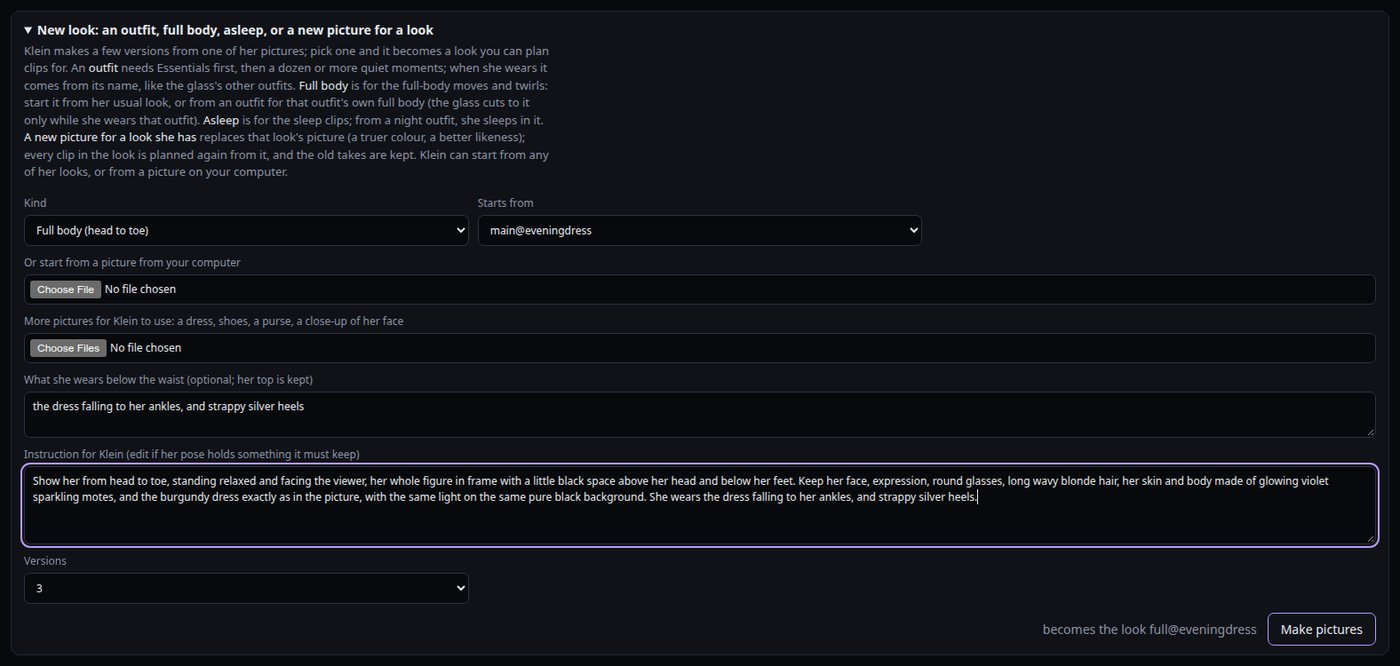
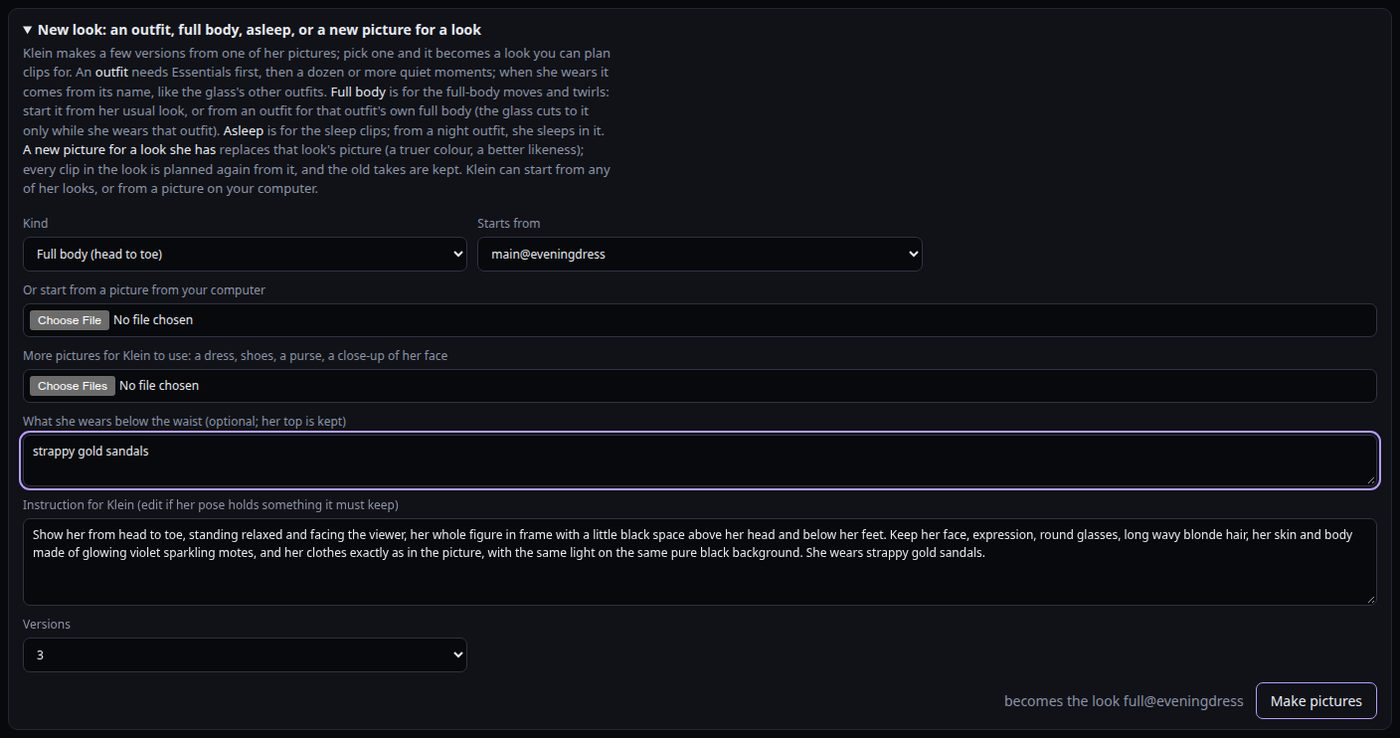
Docs for tonight's fixes and features: feelings after she finishes and outfit stand-ins, any number of Chooms on the stage, moves in the clothes she has on, usual clothes by description, versioned relief files and cache pruning, the build's retried reload, room pauses that expire, mute on subscribe,

diff --git a/hologram/docs/reference.md b/hologram/docs/reference.md
@@ -44,6 +44,10 @@ to report in. Glass Studio's build uses it. Exit codes:
 | `1` | still busy after 10 minutes; not relaunched |
 | `2` | the launch failed: `launch.sh` failed (no Portrait at 1536x2048, say) or no new page within 40 s |
 
+Two relaunches at the same moment can leave duplicate processes. When several scripts or tools may
+relaunch, wrap each in the same lock, e.g. `flock /tmp/glass-relaunch.lock tools/relaunch_when_quiet.sh`;
+`launch.sh` lets go of the lock it was handed (step 2), so it is free again as soon as the relaunch ends.
+
 **Recovery.** The server watches the rest:
 - **The page:** it posts its status every 2 s, also with the screens dark. If none comes for a minute
   (Chrome crashed, the page froze), the server relaunches everything with `launch.sh`. Not in the
@@ -76,7 +80,7 @@ files without a restart.
 | `presence.json` | server.py | presence roles to entities ([Presence](#presence-home-assistant)) |
 | `weather.json` | server.py | weather station sensors ([Weather](#weather)) |
 | `camera.json` | tower_eyes.py, server.py | camera settings from the Choom app's Camera tab ([The glass camera](#the-glass-camera)) |
-| `studio.json` | Glass Studio | the workspace folder ([studio/README.md](../studio/README.md#setup)) |
+| `studio.json` | Glass Studio | the workspace folder and the Studio's settings, such as the morning summary ([studio/README.md](../studio/README.md#setup)) |
 
 **Logs** (in `hologram/`): `server.log`, `ears.log`, `eyes.log`, `chrome.log` and `studio/studio.log`
 are appended on every launch (each starts with a `== <time> launch ==` line) and rotated past 5 MB
@@ -89,7 +93,7 @@ The glass page's keys:
 
 | Key | Does |
 |---|---|
-| ← → or 1–4 | switch Choom |
+| ← → or 1–9 | switch Choom |
 | hold L | listening |
 | H | the readout (fps, clip, depth, calibration, PAUSED) |
 | Space | pause the particles, bands and orbs* |
@@ -157,9 +161,12 @@ whole pipeline. The steps underneath:
    - MediaPipe tracks her mouth.
 
    It writes `portraits/<id>/alive_<clip>.mp4` (colour, depth and cut-out stacked) and `alive.json`.
-   It encodes only clips that are new or changed. After the page reloads, `make_alive.py <id> --prune`
-   deletes videos of clips no longer listed. `tools/make_alive_depth.py` caches depth alone, so
-   `make_alive.py` can then run on the CPU beside a render.
+   It encodes only clips that are new or changed; a re-encoded clip gets a new name
+   (`alive_<clip>_v2.mp4`), so the running page never plays a new take with the old take's mouth track.
+   Caches and videos are written to a `.part` file and swapped in, so a stopped build can't leave a
+   cut-short file behind. After the page reloads, `make_alive.py <id> --prune` deletes videos of clips
+   no longer listed, their depth and mask caches, and leftover `.part` files. `tools/make_alive_depth.py`
+   caches depth alone, so `make_alive.py` can then run on the CPU beside a render.
 
 **Two processes on one GPU.**
 - Depth Anything shares the GPU badly with a Wan2GP queue (more than tenfold slower), so builds
@@ -187,8 +194,9 @@ http://127.0.0.1:8767, or from `studio/studio.py` on the command line.
 - It plans clips from `studio/packs.json` and writes the Wan2GP queues.
 - It renames finished renders by seed and makes contact sheets with automatic checks
   (`studio/review.py`).
-- It builds in order: cut-outs, `make_alive.py`, `tools/relaunch_when_quiet.sh`, then `--prune`.
-- Renders and builds take turns on the GPU.
+- It builds in order: cut-outs, `make_alive.py`, then a relaunch at a quiet moment (retried until the
+  glass is quiet; a busy glass doesn't fail the build), and `--prune` only after the relaunch.
+- Renders and builds take turns on the GPU; builds can be scheduled for a time or after a render.
 
 ## Clips, moods and poses
 
@@ -219,7 +227,7 @@ The page picks clips by what she is doing:
 |---|---|---|
 | idle | base, glance, breath, hum, daydream, giggle, groove | quiet moments, shuffled |
 | talk, think, listen | base, listen, thinkup, longcalm | while she talks, waits on her model, or hears you |
-| happy, surprised, sad, concerned | happy, sad | once, before she answers, when what you said feels that way |
+| happy, surprised, sad, concerned | happy, sad | once: before she answers, when what you said feels that way; after she finishes, when what she said did (an outfit without them plays its nearest clip) |
 | oops | oops_wince, relaxedoops_jaw | once, after one of her tools fails or she says it didn't come out right |
 | greet | wave | taking the glass after a long while away |
 | sleep, wake, yawn | fallasleep, sleep2, wake, yawn | night (below); yawns near bedtime and after waking |
@@ -238,7 +246,7 @@ few listening clips borrows her quiet clips that keep facing forward.
 | Pose | What it is |
 |---|---|
 | `main` | her picture |
-| `relaxed` | Aloy with her hand down: her home pose, reached by `lower` and `raise`; the raised finger comes up now and then while she talks |
+| `relaxed` | Aloy with her hand down: her home pose (set per Choom in the Studio, written to `alive.json` as `home`), reached by `lower` and `raise`; the raised finger comes up now and then while she talks |
 | `asleep` | asleep |
 | `full` | her whole figure, from a full-body picture made from her reference sheet |
 
@@ -247,8 +255,8 @@ quiet clip in fourteen cuts to a full-body clip and back (`FULL_IDLE_CHANCE`).
 
 An outfit can have its own full body (`full@dayshop`, clips named `<id>_dayshop-full_<what>`):
 - In that outfit, the glass cuts only to that full body.
-- In an outfit without one, the glass never cuts to full body. A move she asks for then plays in her
-  usual full body.
+- In an outfit without one, the glass never cuts to full body, and a full-body move she asks for
+  doesn't play there (her answer says which clothes have it).
 
 ## Looks and outfits
 
@@ -293,8 +301,9 @@ are defaults. Copy `glass-settings.example.json` to `glass-settings.json` beside
   when they have their own asleep look (`asleep@nightcold`, with sleep and wake clips such as
   `<id>_nightcold-fallasleep`).
 
-**Her own choice.** Clothes she chooses herself (`glass_wear`, below) take priority over these rules
-until she goes to sleep, until she chooses again, or until midnight. Night clothes she chose stay on
+**Her own choice.** Clothes she chooses herself (`glass_wear`, below) take priority over these rules,
+the day outfit and the 10 pm night clothes included, until she goes to sleep, until she chooses again,
+or at most until midnight. Night clothes she chose stay on
 to sleep in when they have an asleep look.
 
 Neither the Choom app's prompts nor the glass ever tell the Chooms what they are wearing at a given
@@ -316,7 +325,7 @@ and correlation against the voice heard) to `telemetry.log`.
 
 | Choom app route | Used for |
 |---|---|
-| `GET /api/hologram/events` | the live feed: turns, thinking, tools (with the sister when Aloy delegates), failed tools, pictures, speakable sentences, room members, camera and glass requests |
+| `GET /api/hologram/events` | the live feed: turns, thinking, tools (with the sister when Aloy delegates), failed tools, pictures, speakable sentences, room members, camera and glass requests; a new subscriber gets the app's mute first when it's muted |
 | `POST /api/hologram/voice` | heartbeat every 10 s while the hologram speaks, so browsers at home stay quiet |
 | `POST /api/hologram/listening` | typing or the mic in the app at home |
 | `POST /api/hologram/talk` | words heard at the tower, into her chat (`{choom, text}`) or the group room (`{room: true, text}`) |
@@ -581,9 +590,12 @@ a turn of hers in a room.
 Some cases run differently:
 - A room that hadn't reached its next speaker yet just carries on.
 - Your own message to a paused room takes its place.
-- A pause older than an hour is dropped.
+- A pause request older than 15 minutes is dropped, and a room's new run clears one left from an
+  earlier run.
+- A welcome that fails (the chat can't be reached) resumes the rooms it paused at once.
 - If the tower never says you're done, the room picks up after 15 minutes (`ROOMS_PAUSED_S` in
-  `server.py`), once the tower has been quiet for 2.
+  `server.py`, once the tower has been quiet for 2). The Choom app does the same on its own after 15
+  minutes without the hologram's done.
 
 **Logging and tests.** Each leaving and returning is logged as `desk`. Welcomes and skips are logged as
 `welcome`, and paused rooms as `rooms`. `POST /control {"welcomeTest": 30}` sends a real welcome now,
@@ -629,7 +641,7 @@ Each wake and blank is logged as `screens`.
 ## Everything else on the page
 
 - **Group stage.**
-  - A room turn brings the Chooms in that room to the glass, from two to four of them. All four come
+  - A room turn brings the Chooms in that room to the glass, however many there are. All of them come
     when the room isn't known, as with "OK Chooms".
   - The speaker stands in front, and her sisters stand smaller behind her, turned toward her. When the
     turn passes, the two trade places.
@@ -739,7 +751,8 @@ Each wake and blank is logged as `screens`.
 | `recovery`, `feed` | server | a page relaunch or a helper restarted or stopped (also in `recovery.log`); the Choom feed reconnecting |
 
 `tools/deinterleave.py OUT.jpg [view ...]` grabs the Portrait and rebuilds individual views. Use it to
-check depth without standing in front of the glass; run it with a Python that has numpy and Pillow.
+check depth without standing in front of the glass; run it with a Python that has numpy and Pillow. It
+finds the calibration in `calibration/` as the server does (`HOLOGRAM_CALIBRATION` names one).
 
 ## Still portraits (fallback)
 

diff --git a/hologram/README.md b/hologram/README.md
@@ -19,11 +19,12 @@ happening in the Choom app: listening, thinking, using tools, changing clothes, 
   her mouth follows the words. While the glass is running, browsers at home stay quiet, so each reply
   is heard once.
 - **Moods.** She listens while you type or use the mic, looks thoughtful while her model works, and
-  shows happy, surprised, sad or concerned when the conversation calls for it. When one of her tools
-  fails she makes a face of her own.
+  shows happy, surprised, sad or concerned when the conversation calls for it: before she answers what
+  you said, and once she has finished saying something that feels that way (in an outfit without that
+  expression, its nearest look). When one of her tools fails she makes a face of her own.
 - **Tool moments and pictures.** Each tool she uses has a fitting look. A picture she makes or
   analyzes floats beside her for a few seconds.
-- **Group stage.** In a group room, the Chooms in that room share the glass (two to four of them).
+- **Group stage.** In a group room, the Chooms in that room share the glass, however many there are.
   The speaker stands in front, and the speakers trade places as the turn passes.
 
 **Looks and clothes**
@@ -33,9 +34,10 @@ happening in the Choom app: listening, thinking, using tools, changing clothes, 
   changes with a camera cut or a change-of-clothes clip.
 - **Full body.** Now and then the glass cuts to her whole figure. An outfit can have its own full
   body, used only while she wears it.
-- **Their own choices.** The Chooms can ask the glass for a move or for clothes from their closet.
-  A move plays in the clothes she has on. Anything they don't have yet goes on a wish list in Glass
-  Studio.
+- **Their own choices.** The Chooms can ask the glass for a move or for clothes from their closet,
+  their usual clothes included ("my cream blouse"). Clothes she picks take priority until bedtime. A
+  move plays in the clothes she has on, at her next quiet moment on the glass within half an hour.
+  Anything they don't have yet goes on a wish list in Glass Studio.
 
 **Talking at the tower, and being seen**
 - **Wake phrases.** Say "OK Aloy" (or Optic, Genesis, Eve) and she comes to the glass and listens.
@@ -90,11 +92,14 @@ The Choom app runs on another machine (here a Mac Studio). The hologram reaches 
 4. **Choom app.** `export CHOOM_URL=http://<choom-host>:3000` (the default is in `launch.sh`).
 5. **Home Assistant (optional).** Put `ha_url`, `ha_token`, `presence.json` and `weather.json` in
    `~/.config/choom-hologram/` ([Presence](docs/reference.md#presence-home-assistant), [Weather](docs/reference.md#weather)).
-6. **Start.** Run `./launch.sh`; `./launch.sh stop` closes everything. To start at login, point an
+6. **Install settings (optional).** Sleep hours, the night-clothes hour, temperature thresholds,
+   evening hours and outfit visit lengths have defaults; to change them, copy
+   `glass-settings.example.json` to `glass-settings.json` ([Looks and outfits](docs/reference.md#looks-and-outfits)).
+7. **Start.** Run `./launch.sh`; `./launch.sh stop` closes everything. To start at login, point an
    autostart entry at `tools/autostart.sh`, which waits for the Portrait ([Running](docs/reference.md#running)).
    While it runs, the server relaunches a page that stops reporting and keeps the tower's listener and
    camera running ([Recovery](docs/reference.md#running)).
-7. **Glass Studio.** Point `~/.config/choom-hologram/studio.json` at a workspace folder and open
+8. **Glass Studio.** Point `~/.config/choom-hologram/studio.json` at a workspace folder and open
    http://127.0.0.1:8767 ([studio/README.md](studio/README.md)). `launch.sh` starts the Studio if it
    isn't running.
 
@@ -145,11 +150,15 @@ configuration files, the Choom app routes, debugging hooks and telemetry.
 [Glass Studio](studio/README.md) is where clips, looks, outfits and new Chooms are made, at
 http://127.0.0.1:8767 on the GPU machine.
 1. **Plan.** It plans clips from a library of actions that have worked on the glass.
-2. **Render.** It renders them with Wan2GP, now or at a scheduled time.
+2. **Render.** It renders them with Wan2GP, now or at a scheduled time. The work list can be paused
+   after the item it's on, and resumed.
 3. **Review.** It shows each clip as a contact sheet, with automatic checks for the usual failures
-   (fog, a camera push-in, a colour shift, a seam, a cut).
-4. **Arrange and build.** You arrange each look's clips and build them onto the glass, which
-   reloads when she is quiet.
+   (fog, a camera push-in, a colour shift, a seam, a cut). An earlier take can be brought back.
+4. **Arrange and build.** You arrange each look's clips and build them onto the glass (now, at a time,
+   or after the render), which reloads when she is quiet. Each look shows how far it is from the glass.
+
+A short summary can come by Signal through the Choom app when the night's work is done, held until
+morning so it never wakes anyone ([studio README](studio/README.md#setup)).
 
 Each clip's prompt, seed and decision is kept in that Choom's project file.
 

diff --git a/hologram/studio/README.md b/hologram/studio/README.md
@@ -262,8 +262,8 @@ rendered clip uses, a look's picture, versions a look is waiting on, or a queue 
 **A morning summary on Signal** (optional): when a scheduled render or build, or a run of them, has
 finished or failed, the Studio sends one short message through the Choom app, in one Choom's Signal
 thread. It lists what ran, anything that failed and why, and how many clips wait for review and how
-many are flagged. Anything that ends between 10 pm and 7 am waits until 7. Turn it on in
-`studio.json` (see Setup).
+many are flagged. Anything that ends in the quiet hours (10 pm to 7 am unless you set them) waits
+until they're over. Turn it on in `studio.json` (see Setup).
 
 ### Looks
 
@@ -277,7 +277,9 @@ Each look has its picture and three lines:
 
 An outfit's card also has its **closet words** (see [What the Chooms can ask
 for](#what-the-chooms-can-ask-for)). **Save** applies the lines to clips planned from then on and to
-the look's clips that are already planned; rendered clips keep their prompts.
+the look's clips that are already planned; rendered clips keep their prompts. Clips already queued in a
+render (a scheduled one too) keep the prompt they were queued with: Save says how many, and cancelling
+that render and rendering again uses the new lines.
 
 An outfit's card also has **She wears**: what she wears in it (from "She now wears" when it was
 made; empty on looks made before that, until you fill it in). Changing it and clicking **Save** puts
@@ -398,20 +400,26 @@ looking-glass skill):
 
 | Tool | What it does |
 |---|---|
-| `glass_move("a little dance")` | plays a move at her next quiet moment, once |
+| `glass_move("a little dance")` | plays a move once, in the clothes she has on, at her next quiet moment on the glass within half an hour |
 | `glass_wear("my red dress")` | changes her clothes at her next quiet moment; she keeps them on until bedtime, or until she changes again |
 | `glass_closet()` | lists her moves and the clothes in her closet, never what she has on |
 | `glass_wish("a midnight-blue silk slip dress")` | puts clothes or a move she'd like on her wish list; nothing changes on the glass |
 
 The glass answers from what's built:
 - **Moves** are her selfie moves, her full-body clips, and clips named for a move: a dance, a wave,
-  a kiss, a curtsy. "Spin around" finds a twirl, and "flip my hair" finds a hair flip.
+  a kiss, a curtsy. "Spin around" finds a twirl, and "flip my hair" finds a hair flip. A move plays only
+  in the clothes she has on: one she has only in an outfit is answered "only in" those clothes, and one
+  only in clothes she can't wear yet becomes a wish. Answers name the move as something she does
+  ("blow a kiss", "walk the runway").
 - **Clothes** match an outfit's **closet words**. They're read from what she wears in the look
   ("dress, burgundy, red"), and you can change them on the look's card; empty goes back to the ones
   read from her clothes. A garment, colour or fabric she names must be in the outfit, so "the red
   dress" finds the burgundy one but "a blue silk dress" doesn't find a green one. If two outfits fit
   equally, the glass picks one at random. Night clothes also answer to pajamas, bed and their own
   garments, warm or cold by the weather.
+- **Her usual clothes** can be asked for by description as well as by "my usual clothes": "my
+  wireframe dress", "my cream blouse". A tie with them goes to them. "Own" beside a garment means that
+  garment ("my own green dress" is her green dress).
 - **What her closet calls each outfit** (`glass_closet`, and "you change into …") is what she wears in
   it. A look in her usual clothes, changed some other way, is named by what she holds there or not:
   Optic's heart-aside look is "your usual clothes, without a glowing fire agate heart". A pose is not
@@ -474,14 +482,15 @@ you leave out uses the default in `config.py`:
   "picture_model": "flux2_klein_9b",
   "minutes_per_clip": 5.5,
   "port": 8767,
-  "notify": {"url": "http://your-mac.local:3000", "choom": "Aloy", "quiet": [22, 7], "dry_run": false}
+  "notify": {"url": "http://your-mac.local:3000", "choom": "Aloy", "quiet": ["22:00", "07:00"], "dry_run": false}
 }
 ```
 
 `minutes_per_clip` only sets the time estimates on the page. `notify` sends the morning summary:
 - **url:** the Choom app; empty turns it off.
 - **choom:** whose Signal thread it comes in, by name or id.
-- **quiet:** the hours it holds messages.
+- **quiet:** when it holds messages, from the first time to the second: whole hours (`[22, 7]`) or
+  `"HH:MM"` (`["22:00", "07:10"]` lands the summary just after a 7 am briefing).
 - **dry_run:** writes the message to `studio/studio.log` instead of sending it.
 
 Settings for testing:

diff --git a/README.md b/README.md
@@ -18,7 +18,7 @@ All 116 tools are organized into 27 modular **skills** with progressive disclosu
 - **Image Generation**: Stable Diffusion Forge integration with selfie mode, LoRA support, and LLM-guided sizing
 - **Text-to-Speech**: Streaming TTS via Chatterbox/Fatterbox with per-Choom voice selection. **Per-message playback**: every Choom response in 1:1 chats and group rooms gets a play/stop button — audio is generated on demand in the author's voice and cached to disk, so past conversations (including rooms the Chooms ran on their own) can be listened to any time. **Mute silences everything**: the mute button broadcasts to a global audio-player registry — the 1:1 stream, room queues, per-message playback, and any player orphaned by page navigation (a long agentic turn survives leaving the page by design; its TTS instance is disposed on unmount so it can't keep talking where the new page's mute button can't reach it)
 - **Speech-to-Text**: Whisper-based transcription with push-to-talk, toggle, and VAD modes
-- **Looking Glass Hologram**: The Chooms as moving 3D reliefs in a Looking Glass Portrait. Whoever is talking comes to the glass and speaks in her own voice with lip sync, expressions and moments that fit what she is doing; all four share a stage in group rooms; you can talk to them at the tower ("OK Aloy", "OK Chooms"). See [Looking Glass Hologram](#looking-glass-hologram)
+- **Looking Glass Hologram**: The Chooms as moving 3D reliefs in a Looking Glass Portrait. Whoever is talking comes to the glass and speaks in her own voice with lip sync, expressions and moments that fit what she is doing; the Chooms in a group room share a stage; you can talk to them at the tower ("OK Aloy", "OK Chooms"). See [Looking Glass Hologram](#looking-glass-hologram)
 - **Signal Bridge**: Two-way messaging through Signal, including voice transcription, image delivery, and image forwarding for vision analysis. **Continuous conversation across surfaces**: a Signal message continues the Choom's most-recently-active 1:1 chat — the one you had open on the web — instead of starting a fresh, context-less thread. Heartbeat/briefing/automation output lives in the Choom's persistent `[Autonomous]` chat, which never hijacks Signal routing: replying to a heartbeat continues your real conversation, and the Choom knows what she just said through the cross-session awareness block. **Cross-surface routing**: an un-addressed Signal message (no name) goes to whichever Choom you most recently had a *genuine* conversation with on **any** surface, web or Signal — so chatting with Eve on the web then texting carries the thread to Eve. Heartbeats and self-followups are ignored for this (they can't hijack who answers); name a Choom to switch. Group scratch chats (archived) and per-task delegation chats are excluded, so jumping into a group room or a delegation and back never hijacks your 1:1 thread; `group:` Signal messages route to the shared room on their own path
 - **Smart Home (Home Assistant)**: Full integration with Home Assistant for reading sensors, controlling lights/switches/climate, viewing history trends, and ambient home awareness. Three-layer environmental awareness: system prompt injection (every LLM call knows the current home state), heartbeat monitoring (periodic checks with intelligent reasoning), and conditional automations (trigger actions based on sensor thresholds). Includes an Entity Browser in Settings and works from both the web UI and Signal. See the [Smart Home Guide](#smart-home-home-assistant-1) for setup and usage
 - **Scheduled Tasks**: Cron-driven morning briefings, weather checks, aurora forecasts, health heartbeats, and YouTube music downloads. Custom heartbeats support **per-task model routing** — assign a fast/cheap model to simple tasks (selfies, reminders) while keeping the Choom's primary model for complex work
@@ -1006,6 +1006,13 @@ demand from the live Choom list (with `choom_commons/drafts/` and
 letter into her inbox (plus an image from this turn or a workspace file), and
 **`check_inbox`** reads what is new and marks it seen (`.seen.json`). The wake-up
 preamble says `check_inbox`.
+
+### Unit tests
+
+`npx jest` in `nextjs-app/` runs the unit tests. `jest.setup.js` makes any request to localhost or the
+home network fail inside a test, so a test can never reach the running app, the memory server, TTS or
+Home Assistant: a route under test that posts a notification would otherwise reach Signal for real. A
+test that needs such a call stubs `global.fetch` itself.
 
 ### Testing against real Chooms
 

diff --git a/hologram/studio/docs/tutorial-outfit.md b/hologram/studio/docs/tutorial-outfit.md
@@ -159,13 +159,16 @@ time, drag one out to take it off, or drop one onto another to swap them. Hover 
 
 ![The new look's kept clips, ready to go on the glass](images/outfit-8-glass.jpg)
 
-The bar at the top shows what changed since the glass was last built. Click **Build and put on the
+The bar at the top shows what changed since the glass was last built, and warns about the easy
+misses: a look whose kept clips are none of them on the glass (with **Put them on the glass**), or an
+outfit's full body placed while the outfit itself has no talk loop on the glass yet. Under each look's
+name a line says how many clips are kept, placed and still to build. Click **Build and put on the
 glass**:
 
 ![The build bar with the new clips waiting](images/outfit-9-build.jpg)
 
 1. The Studio makes the new clips' cut-outs and depth. Only new clips are processed; that takes about
-   a minute each.
+   2½ minutes each.
 2. The glass reloads at its next quiet moment, when no Choom is talking. If the Chooms are busy in a
    room, it tries again every few minutes.
 

diff --git a/hologram/studio/docs/tutorial-new-choom.md b/hologram/studio/docs/tutorial-new-choom.md
@@ -196,9 +196,11 @@ about 40; your own make up the rest.
 
 ### Expressions, oops faces and selfie moves
 
-The **Expressions** pack plays when the conversation feels happy, surprised, sad or concerning. The
+The **Expressions** pack plays when the conversation feels happy, surprised, sad or concerning:
+before she answers what you said, and once she has finished saying something that feels that way. The
 **Oops** pack plays after one of her tools fails: a wince, a rueful shake of the head, not her sad
-face. **Selfie moves** play with a picture she makes of herself. **Picture looks** turn her toward a
+face. Both can be planned for her outfits too (**Plan for many looks at once** does every outfit in one
+step); an outfit without them borrows its nearest clip, a smile or raised brows. **Selfie moves** play with a picture she makes of herself. **Picture looks** turn her toward a
 picture floating beside her.
 
 ### Windy days
